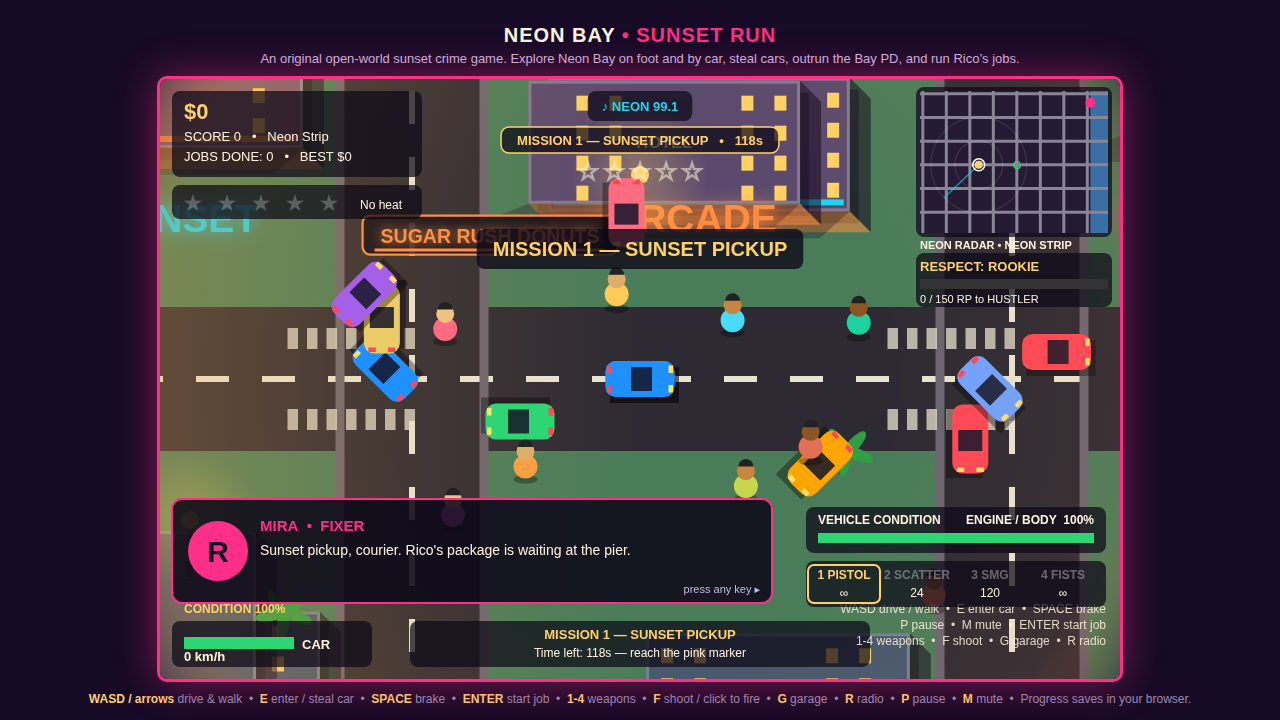
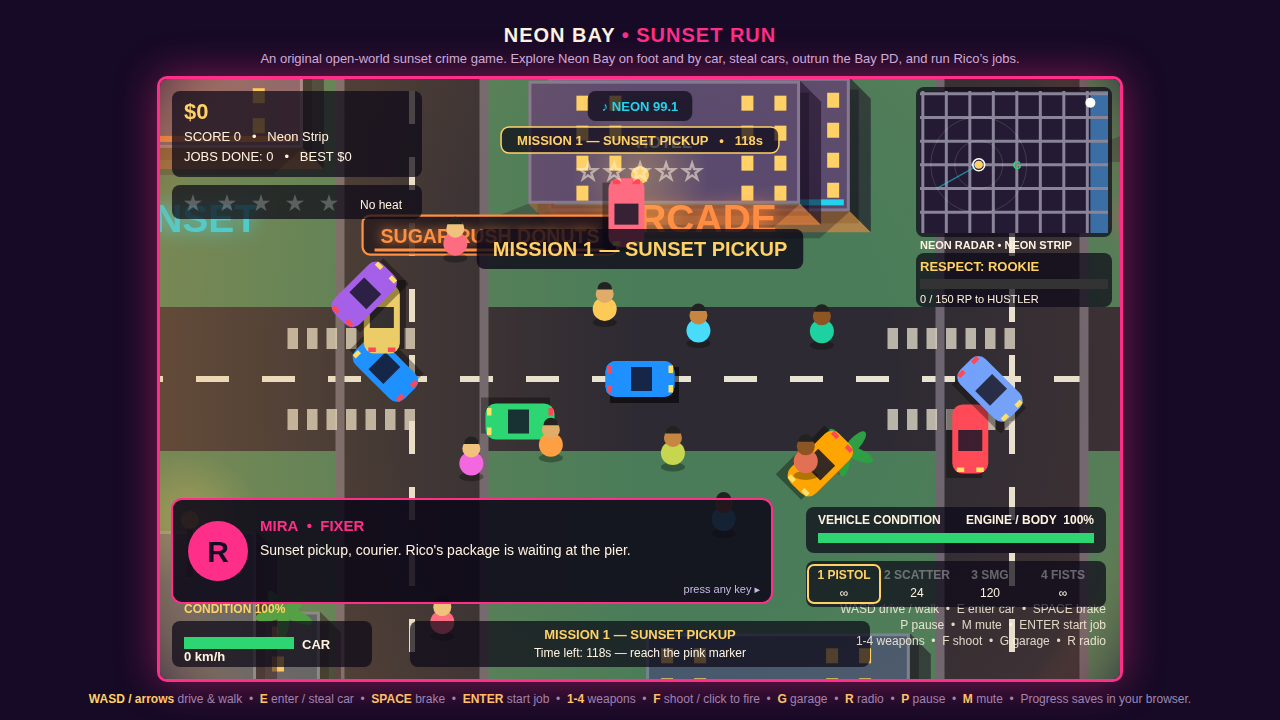
gta6-01 round 4: add deterministic mission-7 hero-frame showcase preset

diff --git a/game/src/main.js b/game/src/main.js
@@ -98,7 +98,10 @@
       bestCash: save.bestCash,
       bestScore: save.bestScore,
       startButton: null,
-      shot: null
+      shot: null,
+      // Round 4 hero frame: true only while the ?shot=hero preset is
+      // staged, so the render path can drop its duplicate target marker.
+      heroFrame: false
     };
     state.missions.showMessage('Welcome to Neon Bay. Press ENTER to start.', 999);
     return state;
@@ -450,7 +453,9 @@
     NB.Render.drawGround(ctx, state.cam, state.city, state.time);
     NB.Render.drawCityProps(ctx, state.cam, state.city, state.time);
     NB.Garage.drawGarageMarker(ctx, state, state.time);
-    if (state.missions.phase === 'active') {
+    // Round 4 hero frame: the beacon already marks the target, so the
+    // plain marker stays off and the frame keeps a single focal point.
+    if (state.missions.phase === 'active' && !state.heroFrame) {
       NB.Render.drawMarker(ctx, state.missions.current().target, state.time);
     }
     var i;
@@ -605,6 +610,19 @@
       state.wantedTimer = 999;
       fanPolice(1700, 1300, 2);
       clusterTraffic(1700, 1300, 4);
+    } else if (name === 'hero') {
+      // Hero frame: mission 7 at the Pier under five stars. The truck,
+      // the beacon and the NBPD response are staged exactly by
+      // stageHeroFrame after the settle loop, so this branch only opens
+      // the job and seeds the ambient traffic to cluster around the pier.
+      enterCarAt(state, 2930, 330);
+      state.missions.index = 6;
+      state.missions.start(state);
+      state.missions.timeLeft = 118;
+      state.wanted = 5;
+      state.wantedTimer = 999;
+      state.heli.active = true;
+      clusterTraffic(2930, 330, 6);
     }
     // Let traffic and peds settle for a few frames before the shot.
     for (var i = 0; i < 40; i++) {
@@ -614,6 +632,82 @@
     }
     state.cam.x = Math.max(0, Math.min(C.worldWidth - state.viewW, p.x - state.viewW / 2));
     state.cam.y = Math.max(0, Math.min(C.worldHeight - state.viewH, p.y - state.viewH / 2));
+    // Round 4 hero frame: exact staging and camera offset, applied
+    // after the settle loop so nothing drifts before the screenshot.
+    if (name === 'hero') stageHeroFrame(state);
+  }
+
+  // Round 4 hero frame: one deterministic composition for mission 7
+  // (KINGPIN'S LAST RUN) — the money truck in the foreground, the Pier
+  // beacon above it, AIR-1 and two cruisers in the frame, a roadblock
+  // between the truck and the target, pier signage and string lights in
+  // view, and only the key HUD (objective banner, wanted stars, neon
+  // radar) on screen. Canvas is 960x600, zoom 1.5, so the camera sees
+  // a 640x400 world window; the camera sits at the east clamp
+  // (x 2560, y 50) which puts the truck lower-centre-right at screen
+  // (555, 420) and the beacon upper-centre at screen (510, 225).
+  // Everything not part of the composition is parked off-frame or
+  // switched off: the plain target marker (the beacon already marks
+  // the target), the centre message plate (the banner already carries
+  // title + timer), the wanted alert (five stars already say it) and
+  // the crew dialogue box (its plate would cover the truck).
+  function stageHeroFrame(state) {
+    var p = state.player;
+    var i;
+    state.heroFrame = true;
+    // Truck on the sand by the pier, nose east toward the boat.
+    p.x = 2930; p.y = 330; p.angle = 0;
+    if (p.car) { p.car.x = 2930; p.car.y = 330; p.car.angle = 0; p.car.speed = 0; }
+    // Camera: east clamp — beach, water and pier lights all read.
+    state.cam.x = 2560;
+    state.cam.y = 50;
+    // AIR-1 upper-left, searchlight sweeping down toward the pier.
+    // Parked at canvas (300,195): below the cafe sign and the wanted
+    // text, left of the cruisers and the beacon ring — body, rotor and
+    // tail all clear of every HUD plate and sign.
+    state.heli.active = true;
+    state.heli.x = 2760; state.heli.y = 180;
+    state.heli.sweep = 0; state.heli.rotor = 0; state.heli.phase = 0;
+    // Two cruisers on the pier road: one ahead by the cafe sign, one
+    // closing from behind — both clear of the HUD plates.
+    state.police.length = 0;
+    state.police.push(NB.Entities.makeCar(2848, 150, Math.PI / 2, '#1a1a2e', 'police'));
+    state.police.push(NB.Entities.makeCar(2848, 390, -Math.PI / 2, '#1a1a2e', 'police'));
+    // One roadblock on the pier road between the truck and the beacon.
+    state.roadblocks.length = 0;
+    state.roadblocks.push({ x: 2848, y: 320, angle: Math.PI / 2, health: 60 });
+    // Two beach cars for depth: one by the pier lights, one mid-frame
+    // left. The rest of the traffic parks off-frame so the shot stays
+    // clean.
+    if (state.traffic.length > 0) {
+      var t1 = state.traffic[0];
+      t1.x = 2970; t1.y = 280; t1.angle = -Math.PI / 2; t1.speed = 0; t1.targetSpeed = 0;
+    }
+    if (state.traffic.length > 1) {
+      var t2 = state.traffic[1];
+      t2.x = 2620; t2.y = 220; t2.angle = 0; t2.speed = 0; t2.targetSpeed = 0;
+    }
+    for (i = 2; i < state.traffic.length; i++) {
+      state.traffic[i].x = 200; state.traffic[i].y = 200;
+      state.traffic[i].speed = 0; state.traffic[i].targetSpeed = 0;
+    }
+    // Four pedestrians on the pier approach; the rest wait off-frame.
+    var pedSpots = [[2900, 300], [2960, 260], [2780, 380], [2650, 200]];
+    for (i = 0; i < state.peds.length; i++) {
+      if (i < pedSpots.length) { state.peds[i].x = pedSpots[i][0]; state.peds[i].y = pedSpots[i][1]; }
+      else { state.peds[i].x = 200; state.peds[i].y = 200; }
+    }
+    // Parked cars other than the player's truck wait off-frame.
+    for (i = 1; i < state.parked.length; i++) {
+      state.parked[i].x = 200; state.parked[i].y = 200;
+    }
+    // Silence the duplicate HUD: centre message off (banner carries
+    // title + timer), alert off (five stars carry the heat), dialogue
+    // off (its plate would cover the truck).
+    state.missions.message = '';
+    state.missions.messageTimer = 0;
+    if (state.wantedFx) { state.wantedFx.alert = ''; state.wantedFx.alertTimer = 0; }
+    if (state.dialog) { state.dialog.active = false; state.dialog.who = null; }
   }
 
   function enterCarAt(state, x, y) {

diff --git a/game/src/render.js b/game/src/render.js
@@ -417,7 +417,9 @@
     ctx.font = '12px sans-serif';
     ctx.fillText(state.wanted > 0 ? 'WANTED — Bay PD inbound' : 'No heat', 200, 130);
     // Round 3: flashing air-unit warning while AIR-1 is overhead.
-    if (state.heli && state.heli.active) {
+    // Round 4 hero frame: off — the five gold stars already carry the
+    // heat, and this line lands on the SALT AIR CAFE sign in the shot.
+    if (state.heli && state.heli.active && !state.heroFrame) {
       var blink = Math.sin(state.time * 8) > 0;
       ctx.fillStyle = blink ? '#ff4757' : '#ffb347';
       ctx.font = 'bold 14px sans-serif';

diff --git a/game/src/shots.js b/game/src/shots.js
@@ -29,8 +29,8 @@
       {
         name: 'mission',
         file: '4-mission.jpg',
-        shot: 'mission',
-        caption: 'Mission 6 shootout — scattergun out, Coral runners closing in, tracers in the air, beacon pulsing over the arcade.'
+        shot: 'hero',
+        caption: 'Mission 7 hero frame — KINGPIN\'S LAST RUN under five stars: the money truck at the Pier, the beacon over the boat, AIR-1 overhead, a roadblock and Bay PD cruisers closing in, neon radar tracking it all.'
       }
     ]
   };
